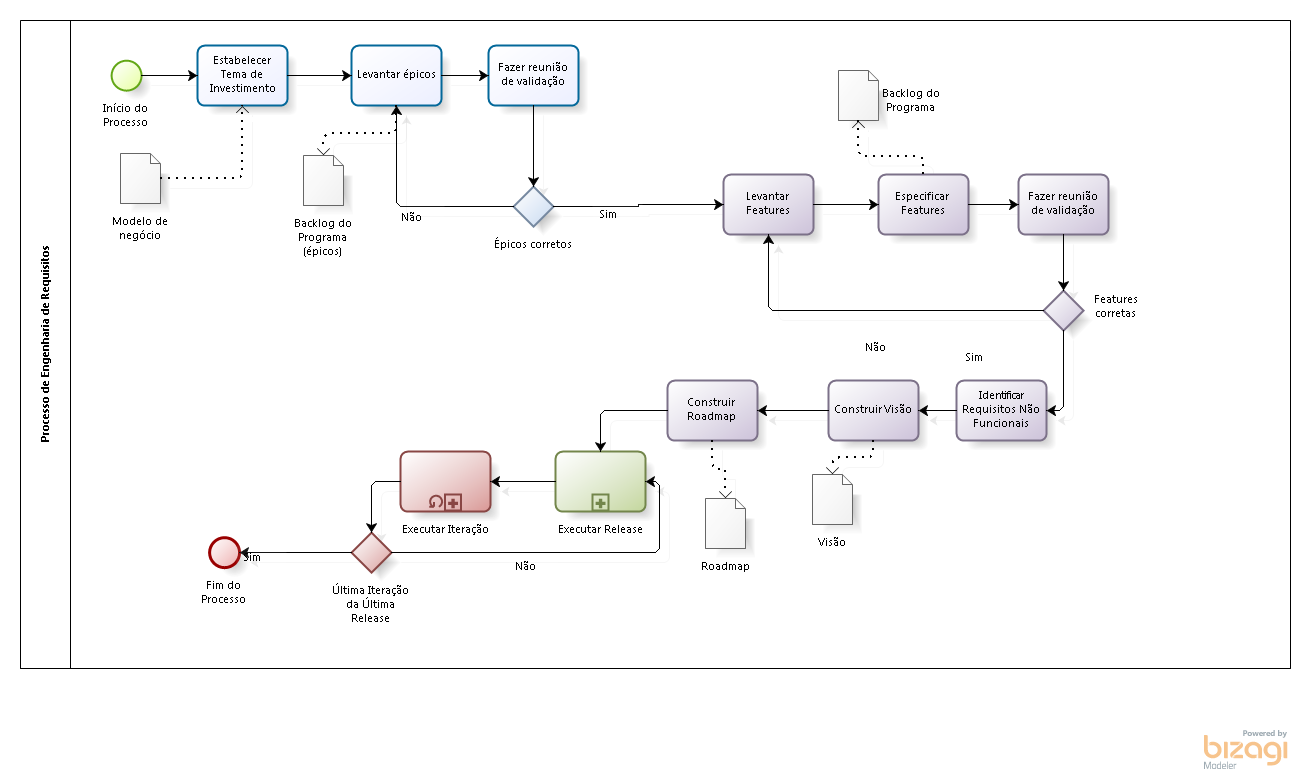
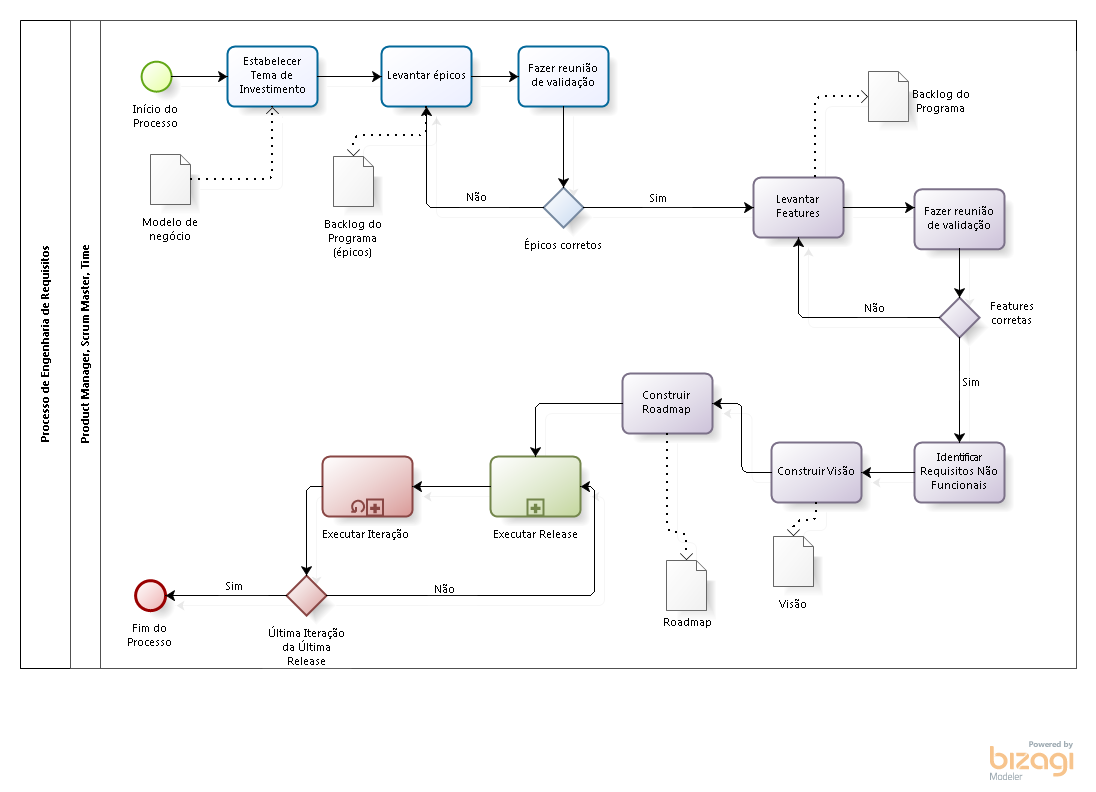
Ajustes no processo

diff --git a/editaveis/atividades_processo.tex b/editaveis/atividades_processo.tex
@@ -2,7 +2,7 @@
 
 \subsection{Estabelecer Tema de Investimento}
 
-  \textbf{Descrição}: Essa atividade consiste na definição do tema de investimento a partir do Workshop de Requisitos realizado.\\
+  \textbf{Descrição}: Essa atividade consiste na definição do tema de investimento a partir do \textit{Workshop} de Requisitos realizado.\\
   
   \textbf{Tarefas}: 
   
@@ -14,14 +14,14 @@
    o Tema de Investimento estabelecido está correto.
   \end{itemize}
   
-  \textbf{Participantes}: Product Manager, Scrum Master, Time \\
+  \textbf{Participantes}: \textit{Product Manager}, \textit{Scrum Master}, Time \\
   
   \textbf{Entradas}: Modelo de negócio \\
   
   \textbf{Saídas}: Anotações do \textit{Workshop} \\
 
 \subsection{Levantar Épicos}
-  \textbf{Descrição}: Essa atividade consiste no levantamento dos épicos com o Product Manager através do Workshop de Requisitos. \\
+  \textbf{Descrição}: Essa atividade consiste no levantamento dos épicos com o \textit{Product Manager} através do  \textit{Workshop} de Requisitos. \\
  
   \textbf{Tarefas}: 
   
@@ -33,14 +33,14 @@
    escrever os épicos no \textit{Backlog} do Programa.
   \end{itemize}
   
-  \textbf{Participantes}: Product Manager, Scrum Master, Time \\
+  \textbf{Participantes}: \textit{Product Manager}, \textit{Scrum Master}, Time \\
   
   \textbf{Entradas}: Anotações do \textit{Workshop} \\
   
   \textbf{Saídas}: \textit{Backlog} do Programa \\
 
 \subsection{Fazer reunião de validação dos épicos}
-  \textbf{Descrição}: Essa atividade consiste na apresentação dos épicos especificados para o Product Manager, de modo a validar se os épicos 
+  \textbf{Descrição}: Essa atividade consiste na apresentação dos épicos especificados para o \textit{Product Manager}, de modo a validar se os épicos 
   especificados estão corretos e correspondem ao esperado. \\
   
   \textbf{Tarefas}: 
@@ -52,38 +52,29 @@
    refinados no \textit{Backlog} do Programa.
   \end{itemize}
  
-  \textbf{Participantes}: Product Manager, Scrum Master, Time \\
+  \textbf{Participantes}: \textit{Product Manager}, \textit{Scrum Master}, Time \\
   
   \textbf{Entradas}: \textit{Backlog} do Programa \\
   
   \textbf{Saídas}:  Não se aplica\\
 
-\subsection{Levantar Features}
-\textbf{Descrição}: Essa atividade consiste em listar as Features, a partir dos épicos , 
-que são as tarefas ou os “serviços” que o sistema deve fornecer para atender as necessidades das partes interessadas. \\
+\subsection{Levantar \textit{Features}}
+\textbf{Descrição}: Essa atividade consiste em listar as \textit{Features}, a partir dos épicos , 
+que são as tarefas ou os “serviços” que o sistema deve fornecer para atender as necessidades das partes interessadas.
+Deve-se observar se as \textit{features} condizem com ou traduzem de forma clara os Épicos 
+definidos previamente, e se através delas é possível escrever as Histórias de Usuário.\\
 
-\textbf{Participantes}: Product Manager, Scrum Master, Time \\
+\textbf{Participantes}: \textit{Product Manager}, \textit{Scrum Master}, Time \\
 
 \textbf{Entradas}: \textit{Backlog} do Programa (épicos) \\
 
 \textbf{Saídas}:   \textit{Backlog} do Programa \\
 
-\subsection{Especificar Features}
-\textbf{Descrição}: Na especificação das features deve-se analisar e detalhar as features listadas anteriormente.
-Deve-se observar se as features condizem com ou traduzem de forma clara os Épicos 
-definidos previamente, e se através delas é possível escrever as Histórias de Usuário.\\
-
-\textbf{Participantes}: Product Manager, Scrum Master, Time \\
-
-\textbf{Entradas}: \textit{Backlog} do Programa\\
-
-\textbf{Saídas}:   \textit{Backlog} do Programa (refinado)\\
-
-\subsection{Fazer reunião de validação das features}
-  \textbf{Descrição}: Essa atividade consiste na apresentação das features especificadas para o Product Manager, de modo a validar se 
+\subsection{Fazer reunião de validação das \textit{features}}
+  \textbf{Descrição}: Essa atividade consiste na apresentação das \textit{features} especificadas para o \textit{Product Manager}, de modo a validar se 
   estão corretos e correspondem ao esperado.  \\
   
-  \textbf{Participantes}: Product Manager, Scrum Master, Time \\
+  \textbf{Participantes}: \textit{Product Manager}, \textit{Scrum Master}, Time \\
   
   \textbf{Entradas}: \textit{Backlog} do Programa \\
   
@@ -92,33 +83,33 @@ definidos previamente, e se através delas é possível escrever as Histórias d
 \subsection{Identificar Requisitos Não Funcionais}
   \textbf{Descrição}: Nesta atividade são identificados e descritos os requisitos não funcionais do sistema e são armazenados no Backlog do Programa.  \\
   
-  \textbf{Participantes}: Product Manager, Scrum Master, Time \\
+  \textbf{Participantes}: \textit{Product Manager}, \textit{Scrum Master}, Time \\
   
   \textbf{Entradas}:  Não se aplica\\
   
   \textbf{Saídas}:  \textit{Backlog} do Programa\\
 
 \subsection{Construir Visão}
-  \textbf{Descrição}: Nesta atividade, deve-se compilar as Features, com os requisitos não funcionais, incluindo elementos 
+  \textbf{Descrição}: Nesta atividade, deve-se compilar as \textit{Features}, com os requisitos não funcionais, incluindo elementos 
   regulatórios ou outros padrões de conformidade, e qualquer restrição de design. A partir disso, é possível descrever um panorama da solução a 
   ser desenvolvida, refletindo as necessidades das partes interessadas e os recursos propostos para atender essas necessidades. \\
   
-  \textbf{Participantes}: Product Manager, Scrum Master, Time \\
+  \textbf{Participantes}: \textit{Product Manager}, \textit{Scrum Master}, Time \\
   
   \textbf{Entradas}: \textit{Backlog} do Programa, Requisitos Não funcionais \\
   
   \textbf{Saídas}:  Visão\\
   
-\subsection{Construir Roadmap}
+\subsection{Construir \textit{Roadmap}}
   \textbf{Descrição}: A partir da Visão, deve-se elaborar uma espécie de roteiro, que situa e comunica a equipe e o programa em relação ao 
   alinhamento dos objetivos de negócios, e fornece visibilidade das entregas ao longo de um cronograma de curto prazo. 
-  Esse roteiro divide as features nas Releases. \\
+  Esse roteiro divide as \textit{features} nas Releases. \\
   
-  \textbf{Participantes}: Product Manager, Scrum Master, Time \\
+  \textbf{Participantes}: \textit{Product Manager}, \textit{Scrum Master}, Time \\
   
   \textbf{Entradas}: Visão \\
   
-  \textbf{Saídas}:  Roadmap\\
+  \textbf{Saídas}:  \textit{Roadmap}\\
 
 \begin{figure}[!htb]
 \centering
@@ -129,26 +120,25 @@ definidos previamente, e se através delas é possível escrever as Histórias d
   
 A partir do Subprocesso da Figura \ref{fig:release} o processo contém as seguintes atividades.
 
-\subsection{Priorizar features}
-  \textbf{Descrição}: Essa atividade consiste na priorização das features para a Release. \\
+\subsection{Priorizar \textit{features}}
+  \textbf{Descrição}: Essa atividade consiste na priorização das \textit{features} para a Release. \\
   
-  \textbf{Participantes}: Product Manager, Scrum Master\\
+  \textbf{Participantes}: \textit{Product Manager}, \textit{Scrum Master}, Time\\
   
   \textbf{Entradas}: \textit{Backlog} do Programa \\
   
   \textbf{Saídas}:  Não se aplica\\
 
 \subsection{Escrever histórias}
-  \textbf{Descrição}: Essa atividade consiste na escrita das histórias em um nível macro, derivadas das features, para composição do \textit{Backlog} do Time. \\
+  \textbf{Descrição}: Essa atividade consiste na escrita das histórias em um nível macro, derivadas das \textit{features}, para composição do \textit{Backlog} do Time. \\
   
-  \textbf{Participantes}: Product Manager, Scrum Master\\
+  \textbf{Participantes}: \textit{Product Manager}, \textit{Scrum Master}, Time\\
   
   \textbf{Entradas}: \textit{Backlog} do Programa \\
   
   \textbf{Saídas}:   \textit{Backlog} do Time \\
 
 \begin{figure}[!htb]
-\centering
 \includegraphics[scale=0.5]{figuras/iteracao.png}
 \caption{Suprocesso Executar Iteração}
 \label{fig:iteracao}
@@ -157,9 +147,9 @@ A partir do Subprocesso da Figura \ref{fig:release} o processo contém as seguin
 A partir do Subprocesso da Figura \ref{fig:iteracao} o processo contém as seguintes atividades.
 
 \subsection{Realizar reunião de planejamento da Iteração}
-  \textbf{Descrição}: Essa atividade consiste no planejamento da iteração através da alocação das histórias definidas no Backlog do Time para o Backlog da Sprint. \\
+  \textbf{Descrição}: Essa atividade consiste no planejamento da iteração através da alocação das histórias definidas no \textit{Backlog} do Time para o \textit{Backlog} da Sprint. \\
   
-  \textbf{Participantes}: Product Manager, Scrum Master, Time\\
+  \textbf{Participantes}: \textit{Product Manager}, \textit{Scrum Master}, Time\\
   
   \textbf{Entradas}: \textit{Backlog} do Time \\
   
@@ -169,7 +159,7 @@ A partir do Subprocesso da Figura \ref{fig:iteracao} o processo contém as segui
   \textbf{Descrição}: Essa atividade consiste na escrita mais detalhada das histórias que irão compor a 
 iteração. \\
   
-  \textbf{Participantes}: Product Manager, Scrum Master, Time\\
+  \textbf{Participantes}: \textit{Product Manager}, \textit{Scrum Master}, Time\\
   
   \textbf{Entradas}: \textit{Backlog} da Iteração \\
   
@@ -196,7 +186,7 @@ iteração. \\
 \subsection{Fazer reunião de revisão e retrospectiva da Iteração}
   \textbf{Descrição}: Essa atividade consiste na validação das histórias implementadas através da execução dos testes de aceitação. \\
   
-  \textbf{Participantes}: Product Manager, Time\\
+  \textbf{Participantes}: \textit{Product Manager}, Time\\
   
   \textbf{Entradas}: Incremento de Software \\
   

diff --git a/editaveis/secoes/processo.tex b/editaveis/secoes/processo.tex
@@ -1,13 +1,44 @@
 \chapter[Processo de Engenharia de Requisitos]{Processo de Engenharia de Requisitos}
 
-O processo de Engenharia de Requisitos definido pode ser visto na Figura \ref{fig:Processo}. É composto das seguintes atividades:
-Estabelecer Tema de Investimento, Levantar épicos, Fazer reunião de validação dos épicos, Levantar Features, Especificar Features, 
-Fazer reunião de validação das Features, Construir Visão, Construir Roadmap, Identificar Requisitos Não Funcionais e dos 
-subprocessos Executar Release e Executar Iteração.
+O processo de Engenharia de Requisitos foi estabelecido com base no SAFe combinado com o Scrum.
+
+O SAFe é dividido em três níveis: Portfólio, Programa e Time. Em cada nível são representados os requisitos
+em diferentes graus de abstração, como: Temas de Investimento, Épicos, \textit{Features} e Histórias.
+Cada nível também possui papéis responsáveis por criar e manter esses requisitos, como: \textit{Product Portfolio Manager}, 
+\textit{Product Manager} e \textit{Product Owner}. O SAFe é baseado no Scrum e
+possui características, alguns artefatos e papéis semelhantes. \cite{safe}
+
+% A estrutura geral do SAFe pode ser vista na Figura \ref{fig:safe}
+% 
+% \begin{figure}[!htb]
+% \centering
+% \includegraphics[scale=0.7]{figuras/safe.png}
+% \caption{\textit{Big Picture} SAFe. Fonte: \cite{safe}}
+% \label{fig:safe}
+% \end{figure}
+
+O Scrum é formado por eventos, papéis e artefatos. Os eventos são: \textit{Sprint}, Reunião de Planejamento
+da \textit{Sprint}, Reunião diária e Reunião de Retrospectiva da \textit{Sprint}. Os papéis são: \textit{Product Owner},
+\textit{Scrum Master} e Time Ágil. Os artefatos são: \textit{Backlog} do Produto, \textit{Backlog da Sprint} e Incremento. \cite{scrum}.
+Os eventos e artefatos do Scrum pode ser vista na Figura \ref{fig:scrum}
 
 \begin{figure}[!htb]
 \centering
-\includegraphics[scale=0.5, angle = -90]{figuras/processo.png}
+\includegraphics[scale=0.7]{figuras/scrum.png}
+\caption{Eventos e artefatos do Scrum. Fonte: \cite{pressman}}
+\label{fig:scrum}
+\end{figure}
+
+
+\begin{figure}[!htb]
+
+Dessa forma, foi estabelecido um processo, que pode ser visto na Figura \ref{fig:Processo}, adequado ao contexto do trabalho.
+É composto das seguintes atividades: Estabelecer Tema de Investimento, Levantar épicos, Fazer reunião de validação dos épicos, 
+Levantar Features, Fazer reunião de validação das Features, Construir Visão, Construir Roadmap, Identificar Requisitos Não Funcionais e dos 
+subprocessos Executar Release e Executar Iteração.
+
+
+\includegraphics[scale=0.5]{figuras/processo.png}
 \caption{Processo de Engenharia de Requisitos}
 \label{fig:Processo}
 \end{figure}

diff --git a/editaveis/artefatos_processo.tex b/editaveis/artefatos_processo.tex
@@ -2,10 +2,10 @@
 
 \begin{itemize}
   \item \textit{Backlog} do Programa
-    \subitem O \textit{Backlog} do Programa é responsável por manter os épicos e as features. É criado na atividade Levantar Épicos e 
-    pode ser atualizado nas atividades: Fazer reunião de validação dos épicos, Levantar Features, Especificar Features, 
-Fazer reunião de validação das Features, Construir Visão, Construir Roadmap, Identificar Requisitos Não Funcionais e durante as atividades
-do subprocesso Executar Release.
+    \subitem O \textit{Backlog} do Programa é responsável por manter os épicos e as \textit{features}. É criado na atividade Levantar Épicos e 
+    pode ser atualizado nas atividades: Fazer reunião de validação dos épicos, Levantar \textit{Features}, Especificar \textit{Features}, 
+Fazer reunião de validação das \textit{Features}, Construir Visão, Construir Roadmap, Identificar Requisitos Não Funcionais e durante as atividades
+do subprocesso Executar \textit{Release}.
   
   \item Visão
    \subitem O Visão consiste em um documento que contém os requisitos funcionais, requisitos não funcionais, incluindo elementos regulatórios 
@@ -14,13 +14,13 @@ do subprocesso Executar Release.
    Visão.
   
   \item \textit{Roadmap}
-     \subitem O \textit{Roadmap} consiste na alocação das features em Releases, através da determinação de datas e priorizações. O Roadmap é 
+     \subitem O \textit{Roadmap} consiste na alocação das \textit{features} em \textit{Releases}, através da determinação de datas e priorizações. O Roadmap é 
      definido na atividade: Construir Roadmap.
 
     
   \item \textit{Backlog} do Time
-      \subitem O \textit{Backlog} do Time é responsável por manter as histórias levantadas a partir das features. É criado na atividade Escrever 
-      histórias da primeira Release e pode ser atualizado nas atividades: Escrever histórias, Especificar histórias, Realizar reunião de planejamento 
+      \subitem O \textit{Backlog} do Time é responsável por manter as histórias levantadas a partir das \textit{features}. É criado na atividade Escrever 
+      histórias da primeira \textit{Release} e pode ser atualizado nas atividades: Escrever histórias, Especificar histórias, Realizar reunião de planejamento 
       da Iteração, Fazer reunião de revisão e retrospectiva da Iteração.
   
   \item \textit{Backlog} da Iteração

diff --git a/editaveis/secoes/introducao.tex b/editaveis/secoes/introducao.tex
@@ -1,6 +1,6 @@
 \chapter[Introdução]{Introdução}
 
-Segundo Pressman (\citeyear{pressman}), Engenharia de Requisitos é ``uma amplo
+Segundo Pressman (\citeyear{pressman}), Engenharia de Requisitos é ``um amplo
 espectro de tarefas e técnicas que levam a um entendimento dos requisitos.''.
 Jitnah, Han e Steele (\citeyear{jitnah}) afirmam que é o processo através do qual as necessidades dos usuários 
 são identificadas e expressas em um artefato.
